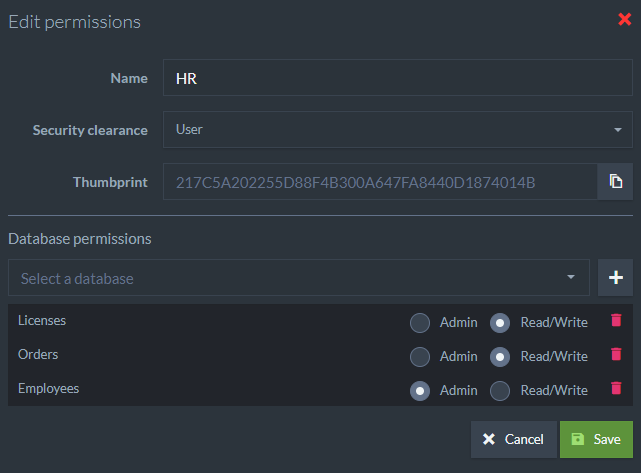
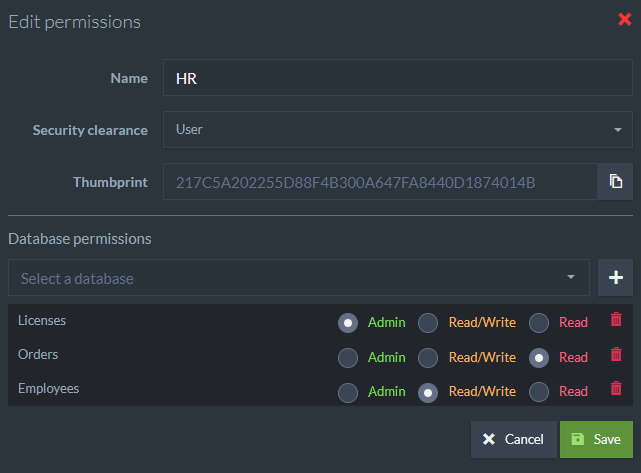
RDoc-1903-read-only-certs Documenting the Read Only access level in the rest of the docs

Changed region(s): [[0.5304, 0.74, 0.9672, 0.8584], [0.5304, 0.6512, 0.9672, 0.7104]]

diff --git a/Documentation/5.2/Samples/csharp/Raven.Documentation.Samples/ClientApi/Operations/Server/ClientCertificate.cs b/Documentation/5.2/Samples/csharp/Raven.Documentation.Samples/ClientApi/Operations/Server/ClientCertificate.cs
@@ -52,6 +52,7 @@ namespace Raven.Documentation.Samples.ClientApi.Operations.Server
             #region cert_1_3
             public enum DatabaseAccess
             {
+                Read,
                 ReadWrite,
                 Admin
             }
